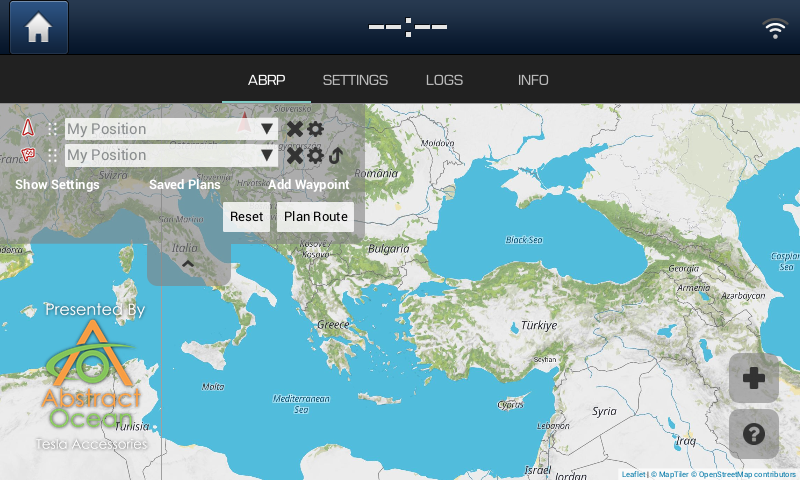
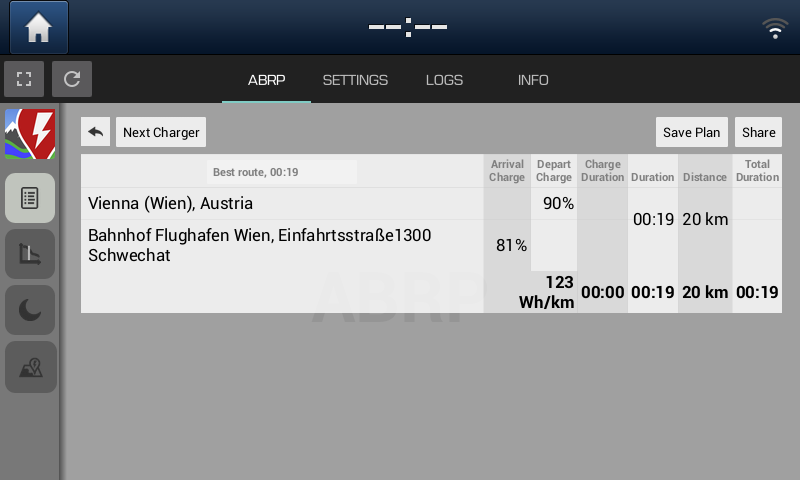
add fullscreen and reload button

diff --git a/app/src/main/java/g4rb4g3/at/abrptransmitter/ui/main/AbrpGeckViewFragment.java b/app/src/main/java/g4rb4g3/at/abrptransmitter/ui/main/AbrpGeckViewFragment.java
@@ -7,6 +7,9 @@ import android.os.Bundle;
 import android.view.LayoutInflater;
 import android.view.View;
 import android.view.ViewGroup;
+import android.widget.Button;
+
+import com.google.android.material.floatingactionbutton.FloatingActionButton;
 
 import org.mozilla.geckoview.AllowOrDeny;
 import org.mozilla.geckoview.GeckoResult;
@@ -37,6 +40,7 @@ public class AbrpGeckViewFragment extends Fragment {
   GeckoView mGeckoView;
   GeckoSession mGeckoSession;
   GeckoRuntime mGeckoRuntime;
+  Button mBtnRealodAbrp;
 
   public AbrpGeckViewFragment() {
     // Required empty public constructor
@@ -62,6 +66,9 @@ public class AbrpGeckViewFragment extends Fragment {
   public View onCreateView(LayoutInflater inflater, ViewGroup container,
                            Bundle savedInstanceState) {
     View view = inflater.inflate(R.layout.fragment_abrp_geck_view, container, false);
+
+    mBtnRealodAbrp = getActivity().findViewById(R.id.btn_reload_abrp);
+    mBtnRealodAbrp.setOnClickListener(v -> mGeckoSession.reload());
 
     if (mGeckoView == null) {
       mGeckoView = view.findViewById(R.id.gv_abrp);
@@ -109,6 +116,18 @@ public class AbrpGeckViewFragment extends Fragment {
       });
     }
     return view;
+  }
+
+  @Override
+  public void onResume() {
+    super.onResume();
+    mBtnRealodAbrp.setVisibility(View.VISIBLE);
+  }
+
+  @Override
+  public void onPause() {
+    super.onPause();
+    mBtnRealodAbrp.setVisibility(View.INVISIBLE);
   }
 
   @Override

diff --git a/app/src/main/java/g4rb4g3/at/abrptransmitter/MainActivity.java b/app/src/main/java/g4rb4g3/at/abrptransmitter/MainActivity.java
@@ -2,6 +2,8 @@ package g4rb4g3.at.abrptransmitter;
 
 import android.content.Intent;
 import android.os.Bundle;
+import android.view.View;
+import android.widget.Button;
 
 import com.google.android.material.tabs.TabLayout;
 
@@ -21,6 +23,19 @@ public class MainActivity extends AppCompatActivity {
     viewPager.setAdapter(sectionsPagerAdapter);
     TabLayout tabs = findViewById(R.id.tabs);
     tabs.setupWithViewPager(viewPager);
+
+    Button btnToggleFullscreen = findViewById(R.id.btn_toggle_fullscreen);
+    btnToggleFullscreen.setOnClickListener(v -> {
+      if (v.getTag() == null) {
+        getWindow().getDecorView().setSystemUiVisibility(View.SYSTEM_UI_FLAG_FULLSCREEN);
+        v.setTag("");
+        btnToggleFullscreen.setCompoundDrawablesWithIntrinsicBounds(getResources().getDrawable(R.drawable.ic_fullscreen_exit), null, null, null);
+      } else {
+        getWindow().getDecorView().setSystemUiVisibility(View.SYSTEM_UI_FLAG_VISIBLE);
+        v.setTag(null);
+        btnToggleFullscreen.setCompoundDrawablesWithIntrinsicBounds(getResources().getDrawable(R.drawable.ic_fullscreen), null, null, null);
+      }
+    });
 
     Intent intent = new Intent(this, CompanionExchangerService.class);
     startService(intent);
